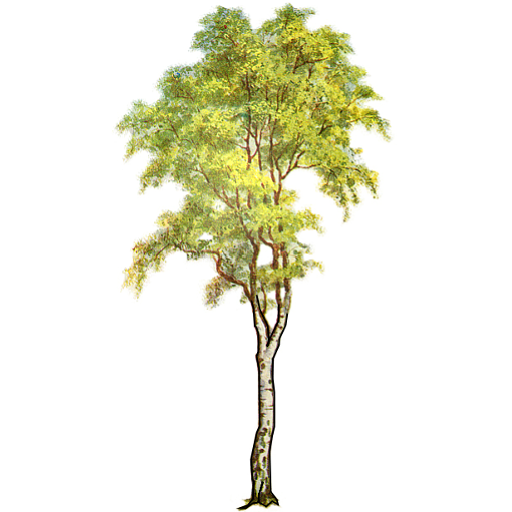
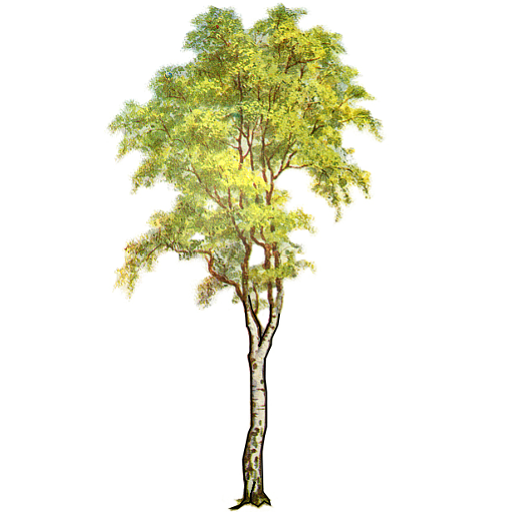
added the template for the tree and tested on the scene, but removed at last, I want the tree to be part of the landscape

Changed region(s): [[0.2188, 0.0, 0.7812, 1.0]]

diff --git a/archervsworld-core/src/main/java/com/gemserk/games/archervsworld/artemis/entities/ArcherVsWorldEntityFactory.java b/archervsworld-core/src/main/java/com/gemserk/games/archervsworld/artemis/entities/ArcherVsWorldEntityFactory.java
@@ -202,4 +202,44 @@ public class ArcherVsWorldEntityFactory {
 		
 	}
 	
+	public void createTree(Vector2 position, Vector2 size) {
+
+		BodyDef bodyDef = new BodyDef();
+		bodyDef.type = BodyType.StaticBody;
+		bodyDef.position.set(position);
+		bodyDef.angularDamping = 1f;
+		bodyDef.linearDamping = 1f;
+
+		Body body = physicsWorld.createBody(bodyDef);
+
+		PolygonShape shape = new PolygonShape();
+		shape.setAsBox(size.y * 0.1f * 0.125f, size.y / 2f - 0.1f);
+
+		FixtureDef fixtureDef = new FixtureDef();
+		fixtureDef.density = 1f;
+		fixtureDef.friction = 1f;
+		fixtureDef.shape = shape;
+		
+		fixtureDef.filter.categoryBits = CollisionDefinitions.RockGroup;
+		fixtureDef.filter.maskBits = CollisionDefinitions.All;
+
+		body.createFixture(fixtureDef);
+		shape.dispose();
+
+		Entity entity = world.createEntity();
+		
+		Resource<Texture> resource = resourceManager.get("Tree");
+		Texture texture = resource.get();
+
+		entity.addComponent(new PhysicsComponent(new SimpleProperty<Body>(body), new SimpleProperty<PhysicsBehavior>(new PhysicsBehavior())));
+		entity.addComponent(new SpatialComponent( //
+				new Box2dPositionProperty(body), //
+				new SimpleProperty<Vector2>(size), //
+				new Box2dAngleProperty(body)));
+		entity.addComponent(new SpriteComponent(new SimpleProperty<Sprite>(new Sprite(texture)), new SimpleProperty<IntValue>(new IntValue(1))));
+
+		entity.refresh();
+		
+	}
+	
 }

diff --git a/archervsworld-core/src/main/java/com/gemserk/games/archervsworld/GameScreen.java b/archervsworld-core/src/main/java/com/gemserk/games/archervsworld/GameScreen.java
@@ -105,6 +105,17 @@ public class GameScreen extends ScreenAdapter {
 						t.dispose();
 					}
 				}, false)));
+		
+		Texture treeTexture = new Texture(Gdx.files.internal("data/tree-512x512.png"));
+		treeTexture.setFilter(TextureFilter.Linear, TextureFilter.Linear);
+		
+		resourceManager.add("Tree", new CachedResourceLoader<Texture>(
+				new ResourceLoaderImpl<Texture>(new StaticDataLoader<Texture>(treeTexture) {
+					@Override
+					public void dispose(Texture t) {
+						t.dispose();
+					}
+				}, false)));
 
 		Sprite fontSprite = new Sprite(fontTexture);
 		BitmapFont font = new BitmapFont(Gdx.files.internal("data/font.fnt"), fontSprite, false);
@@ -166,6 +177,8 @@ public class GameScreen extends ScreenAdapter {
 		// archerVsWorldEntityFactory.createRock(new Vector2(5, 3), new Vector2(3f, 3f), new Vector2(0f, 0f), 120f);
 
 		archerVsWorldEntityFactory.createRock(new Vector2(7, 1), new Vector2(2f, 2f), new Vector2(0f, 0f), 210f);
+		
+		// archerVsWorldEntityFactory.createTree(new Vector2(15, 4.1f), new Vector2(8f, 8f));
 
 		// archerVsWorldEntityFactory.createRock(new Vector2(10, 10), new Vector2(1f, 1f), new Vector2(0f, 0f), 50f);
 
